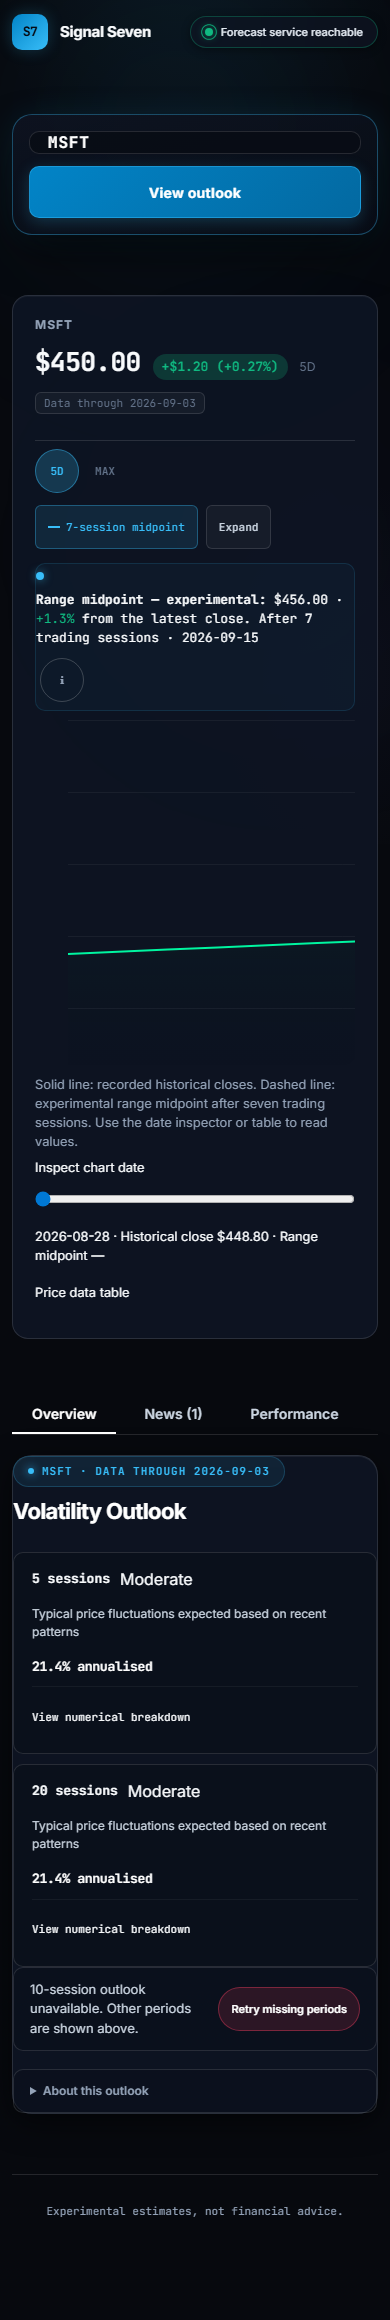
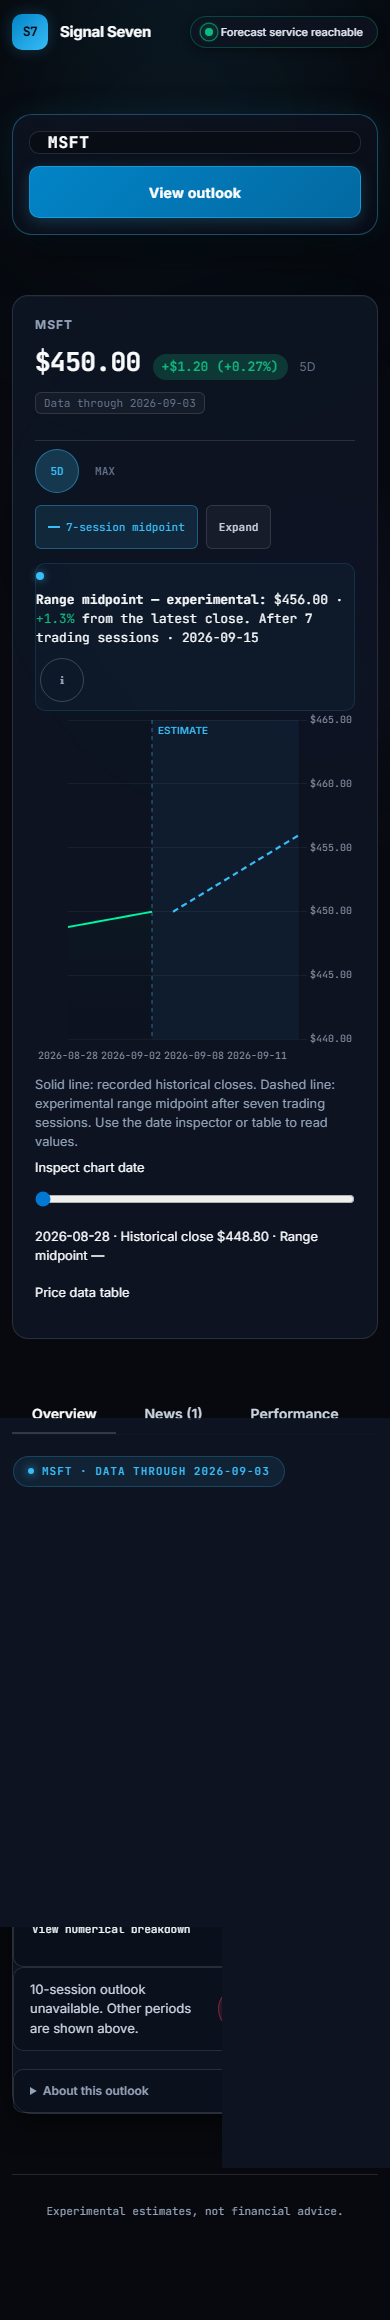
fix(release): align deployment identity and audited product documentation

diff --git a/README.md b/README.md
@@ -20,7 +20,7 @@ Interface example from browser verification, using controlled test data. This im
 
 - Search supported NASDAQ, NYSE, and London-listed stocks, with exchange-aware currencies.
 - Explore prices with zoom, pan, a crosshair, and time ranges based on available history.
-- View a seven-session learned price estimate, visually separated from actual prices.
+- View a seven-session experimental range midpoint, visually separated from actual prices.
 - Inspect a 5-, 10-, or 20-session volatility outlook and its model/fallback disclosure.
 - Read recent financial headlines as separate market context.
 - Inspect historical evaluation results and the source/date of the underlying data.
@@ -38,11 +38,15 @@ usable live data or a successful forecast.
 2. It builds historical return, volatility, trend, range, and volume features.
 3. Data is split chronologically into 70% training, 15% validation, and 15% test partitions.
    Seven-session targets crossing a partition boundary are purged.
-4. Ridge and Random Forest candidates compete on validation error. An available compatible
-   pretrained LSTM checkpoint can also participate.
+4. Ridge and Random Forest candidates compete on validation error. A verified pretrained LSTM
+   checkpoint is an explicit experimental option, not part of automatic model selection.
 5. For locally fitted models, the selected configuration is evaluated on the later test
    partition. A production model is then fitted using all resolved historical targets.
 6. Predicted cumulative log returns are converted into seven future price estimates.
+
+The chart displays the arithmetic midpoint of the historical error bounds, as requested.
+That midpoint is not the model's point forecast or an evaluated expected price. Historical
+performance measures describe the point forecasts; current-refit band coverage is unverified.
 
 The learned endpoint remains `/api/v1/forecast`. A no-change forecast is an evaluation baseline,
 not a hardcoded replacement for the learned price path.
@@ -63,7 +67,7 @@ rolling volatility. This is separate from the learned price endpoint's behavior.
 
 ### Reusing expensive work
 
-For US stocks, chart history warms the same daily market-data cache used by the price forecast.
+For US and UK stocks, chart history warms the same daily market-data cache used by the price forecast.
 Repeated requests can reuse a forecast for unchanged data rather than repeat training.
 Same-worker requests are coordinated to avoid duplicate training.
 
@@ -72,7 +76,8 @@ process restart and be loaded for inference. Changes to data, model configuratio
 runtime versions, or checkpoints invalidate reuse. Invalid artifacts fall through to training.
 
 **A local disk cache is not durable storage across Render instance replacement or redeploys.**
-UK chart history currently follows a separate Yahoo path. See the
+US data uses the configured provider chain; London-listed stocks use an explicit Yahoo adapter
+through the same completed-session service and cache interface. See the
 [artifact cache design and security notes](docs/FORECAST_ARTIFACT_CACHE.md).
 
 ## Limitations
@@ -96,7 +101,7 @@ UK chart history currently follows a separate Yahoo path. See the
 
 The app calls `/health` when the page opens and requests chart history for the selected stock.
 A sleeping Render service starts in the background while the interface displays its loading
-state. Daily history also warms the US forecast data cache.
+state. Daily history also warms the forecast data cache.
 
 Cold starts and the first model fit can still take time. Repeated requests can reuse cached work;
 the interface keeps unavailable data and degraded results explicit. Intraday history is best-effort.
@@ -156,7 +161,7 @@ npm run dev
 ```
 
 Open `http://localhost:5500`. Setting the URL explicitly keeps local requests on your local
-backend; the development proxy otherwise defaults to the hosted Render service.
+backend; the development proxy also defaults to `http://127.0.0.1:8000`.
 
 For production, set `VITE_API_URL` to the backend's public URL **before building** the frontend.
 
@@ -188,9 +193,10 @@ The [CI workflow](.github/workflows/ci.yml) is the source of truth for runner de
 - [GPU volatility provenance](artifacts/PROVENANCE_FINAL.md): G3 evaluation and integration record.
 - [Artifact cache design](docs/FORECAST_ARTIFACT_CACHE.md): reuse guarantees and operational limits.
 
-Remaining engineering work includes shared durable artifact storage, cross-worker training
-coordination, more complete latency telemetry, and unifying the UK/US cache interface. New
-research must remain separate from scored studies; adding a feature is not evidence that it helps.
+Per-worker fitting capacity is bounded. Optional PostgreSQL advisory locks can coordinate
+fitting across workers when explicitly configured; responses expose stage-level timings.
+Shared durable artifact storage remains future work. New research must remain separate from
+scored studies; adding a feature is not evidence that it helps.
 
 ## License
 

diff --git a/docs/AUDIT_REPAIR_2026-10-02.md b/docs/AUDIT_REPAIR_2026-10-02.md
@@ -49,3 +49,20 @@ Local browser verification uses fixtures, not live market predictions. Screensho
 No push, deployment, authenticated collection, settlement, live-ledger export or production correction was performed. Existing data/options user files remain untouched. New compatibility labels leave legacy ledger records immutable. The bounded two-epoch development price comparison does not beat persistence or the train-majority direction comparator and does not establish independent predictive superiority. Legacy checkpoints and missing archival outputs were not repurposed as evidence.
 
 Final acceptance: 300 backend/research tests, 163 frontend tests and 14 Chromium browser tests pass. Ruff check and format check pass; Vite production build passes. One upstream Starlette/httpx deprecation warning remains. The GPU comparison and visual evidence are preserved as small, explicitly scoped local artifacts; temporary test/runtime directories are removed.
+
+## Authorized release review
+
+Following explicit authorization to review, push and verify production, the Render control plane
+confirmed existing service `srv-d9i97s7avr4c73adg050`, named `stock-predictor-lstm`, in
+`frankfurt` on the free plan. It tracks `main` with `checksPass` automatic deployments and
+previews disabled. The blueprint is aligned to those observed settings; no service relocation,
+replacement, creation, secret update or live-ledger operation is required. Vercel project
+`prj_xVDiEtgqOpmZKeyzNEPC9tNSOOe4` is the existing `stock-predictor-lstm` project.
+
+The remote README-only commit `dc66d50` was preserved by a normal merge before release.
+The repair tree independently passed the same 300 Python and 163 frontend tests, lint,
+formatting and production build checks. All 14 fixture-based browser contracts also passed;
+desktop/mobile fixture captures were refreshed. The blueprint passed validation against Render's
+official JSON schema. Post-push CI/deployment probes remain separate release checks; the earlier
+production report above describes the pre-release deployment, not evidence that these changes
+were already live.
